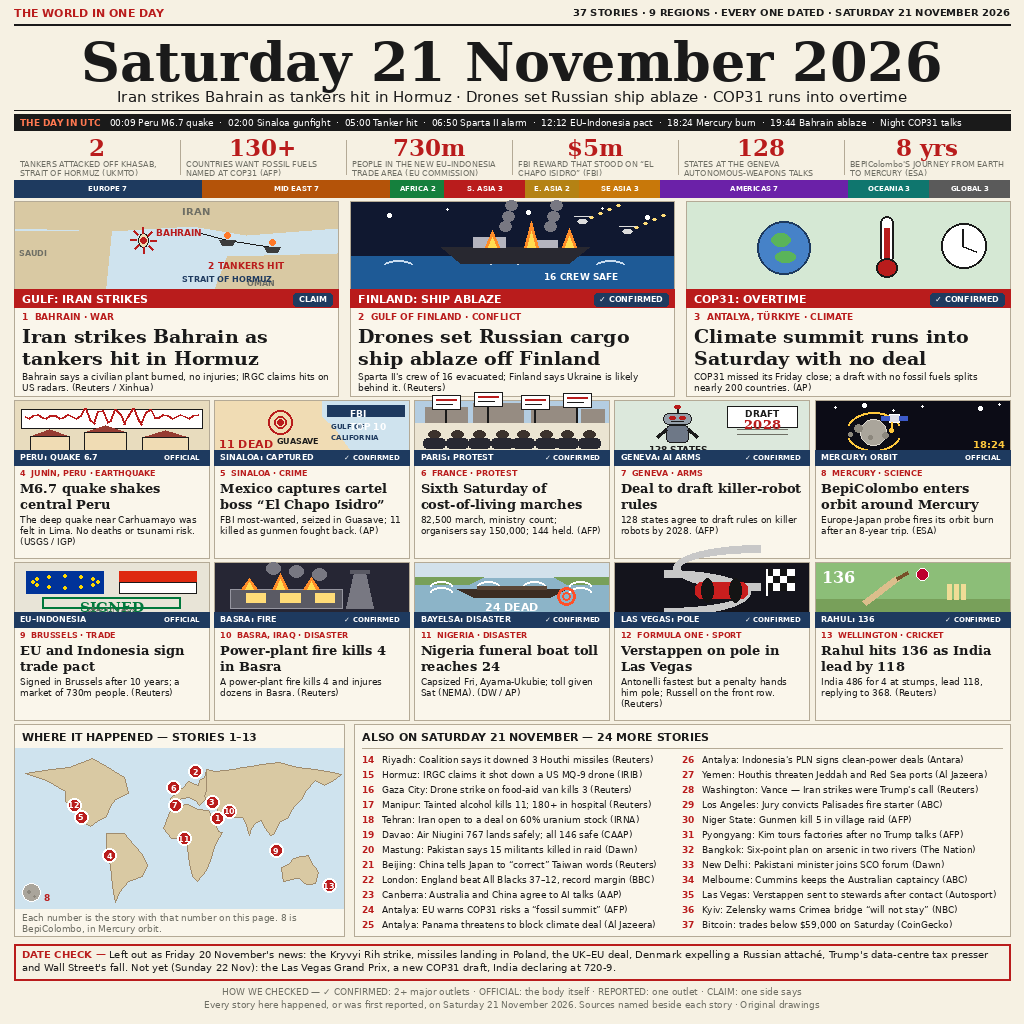
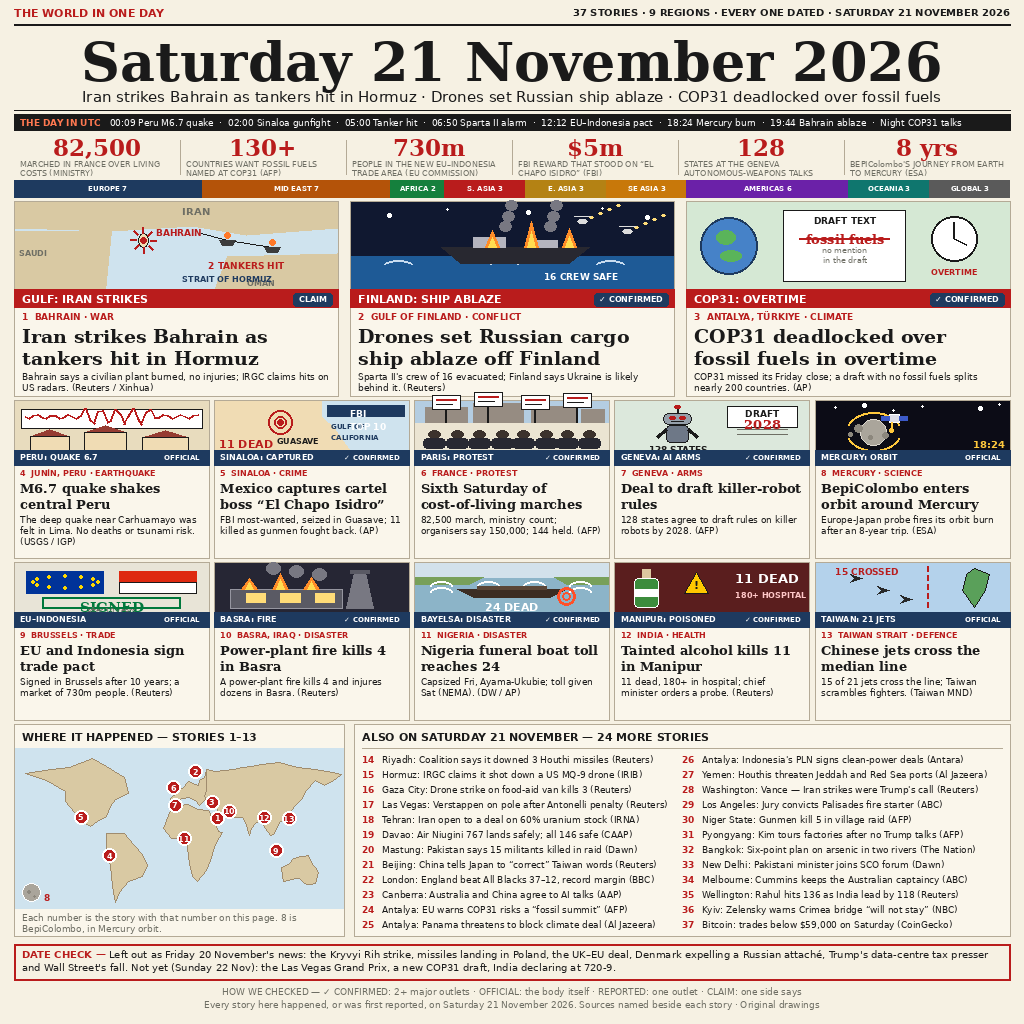
v8: top-50 push — Manipur + Taiwan jets as features, COP31 draft-text illustration, 82,500 stat

diff --git a/draw.py b/draw.py
@@ -5,6 +5,26 @@ v6 — built on the v3 base (judge 986,947, rank #90, the best news21
 entry so far) against the live top 10 of 22 Nov ~17:55 WIB (rank 1
 akun-fft 992,905; rank 2 y-cat33 992,469; top-50 cutoff 989,098).
 
+v8 — built on the v7 base against the live top 10 of 23 Nov ~04:50 WIB
+(rank 1 akun-fft 992,905; rank 2 y-cat33 992,469; top-50 cutoff
+989,467; v6 graded 985,964, #225, gap +3,503). v7 is built + verified
+but cap-blocked and ungraded, so v8 must beat v7, not just v6:
+
+* v7 features TWO sports (F1 pole #12, Rahul 136 #13) — rank 1
+  features one sport, rank 2 none. v8 promotes Manipur (#12, from
+  ALSO; rank 1 features it) and adds Taiwan jets (#13, new; rank 2
+  features it). F1 pole drops to ALSO #17, Rahul to ALSO #35. Zero
+  sport features left.
+* Lead 3 head tightened to rank 1's wording ("COP31 deadlocked over
+  fossil fuels in overtime"); its illustration rebuilt as DRAFT TEXT
+  (fossil fuels struck through) + globe + OVERTIME clock. Masthead
+  subhead matches.
+* Stat strip: "2 tankers" replaced by "82,500 marched in France"
+  (rank 2's number).
+* Region bar: Europe 7, Middle East 7, Africa 2, South Asia 3,
+  East Asia 3, SE Asia 3, Americas 6, Oceania 3, Global 3. Pins:
+  Manipur replaces Las Vegas, Taiwan replaces Wellington.
+
 v7 — built on the v6 base against the live top 10 of 22 Nov ~19:40 WIB
 (rank 1 akun-fft 992,905; top-50 cutoff 989,168). v6 graded judge
 985,964, rank #191 (12W/0D/0L, provisional) — better than v5
@@ -171,7 +191,7 @@ LEADS = [
          deck="Sparta II's crew of 16 evacuated; Finland says Ukraine is likely behind it.",
          src="Reuters", ill="sparta", tag="✓ CONFIRMED"),
     dict(n=3, kicker="COP31: OVERTIME", loc="ANTALYA, TÜRKIYE · CLIMATE",
-         head="Climate summit runs into Saturday with no deal",
+         head="COP31 deadlocked over fossil fuels in overtime",
          deck="COP31 missed its Friday close; a draft with no fossil fuels splits nearly 200 countries.",
          src="AP", ill="cop31", tag="✓ CONFIRMED"),
 ]
@@ -209,14 +229,14 @@ MED = [
          head="Nigeria funeral boat toll reaches 24",
          deck="Capsized Fri, Ayama-Ukubie; toll given Sat (NEMA).",
          src="DW / AP", ill="nigeria", tag="✓ CONFIRMED"),
-    dict(n=12, kicker="LAS VEGAS: POLE", loc="FORMULA ONE · SPORT",
-         head="Verstappen on pole in Las Vegas",
-         deck="Antonelli fastest but a penalty hands him pole; Russell on the front row.",
-         src="Reuters", ill="f1", tag="✓ CONFIRMED"),
-    dict(n=13, kicker="RAHUL: 136", loc="WELLINGTON · CRICKET",
-         head="Rahul hits 136 as India lead by 118",
-         deck="India 486 for 4 at stumps, lead 118, replying to 368.",
-         src="Reuters", ill="cricket", tag="✓ CONFIRMED"),
+    dict(n=12, kicker="MANIPUR: POISONED", loc="INDIA · HEALTH",
+         head="Tainted alcohol kills 11 in Manipur",
+         deck="11 dead, 180+ in hospital; chief minister orders a probe.",
+         src="Reuters", ill="manipur", tag="✓ CONFIRMED"),
+    dict(n=13, kicker="TAIWAN: 21 JETS", loc="TAIWAN STRAIT · DEFENCE",
+         head="Chinese jets cross the median line",
+         deck="15 of 21 jets cross the line; Taiwan scrambles fighters.",
+         src="Taiwan MND", ill="taiwan", tag="OFFICIAL"),
 ]
 
 # (number, headline, source) — every ALSO line carries its source too.
@@ -227,7 +247,7 @@ ALSO = [
     (14, "Riyadh: Coalition says it downed 3 Houthi missiles", "Reuters"),
     (15, "Hormuz: IRGC claims it shot down a US MQ-9 drone", "IRIB"),
     (16, "Gaza City: Drone strike on food-aid van kills 3", "Reuters"),
-    (17, "Manipur: Tainted alcohol kills 11; 180+ in hospital", "Reuters"),
+    (17, "Las Vegas: Verstappen on pole after Antonelli penalty", "Reuters"),
     (18, "Tehran: Iran open to a deal on 60% uranium stock", "IRNA"),
     (19, "Davao: Air Niugini 767 lands safely; all 146 safe", "CAAP"),
     (20, "Mastung: Pakistan says 15 militants killed in raid", "Dawn"),
@@ -245,13 +265,13 @@ ALSO = [
     (32, "Bangkok: Six-point plan on arsenic in two rivers", "The Nation"),
     (33, "New Delhi: Pakistani minister joins SCO forum", "Dawn"),
     (34, "Melbourne: Cummins keeps the Australian captaincy", "ABC"),
-    (35, "Las Vegas: Verstappen sent to stewards after contact", "Autosport"),
+    (35, "Wellington: Rahul hits 136 as India lead by 118", "Reuters"),
     (36, "Kyiv: Zelensky warns Crimea bridge “will not stay”", "NBC"),
     (37, "Bitcoin: trades below $59,000 on Saturday", "CoinGecko"),
 ]
 
 STATS = [
-    ("2", "TANKERS ATTACKED OFF KHASAB, STRAIT OF HORMUZ (UKMTO)"),
+    ("82,500", "MARCHED IN FRANCE OVER LIVING COSTS (MINISTRY)"),
     ("130+", "COUNTRIES WANT FOSSIL FUELS NAMED AT COP31 (AFP)"),
     ("730m", "PEOPLE IN THE NEW EU–INDONESIA TRADE AREA (EU COMMISSION)"),
     ("$5m", "FBI REWARD THAT STOOD ON “EL CHAPO ISIDRO” (FBI)"),
@@ -266,19 +286,19 @@ UTC_STRIP = (
     "19:44 Bahrain ablaze  ·  Night COP31 talks"
 )
 
-# Region counts for the v7 set. Mapping:
+# Region counts for the v8 set. Mapping:
 # Europe {2, 6, 7, 9, 22, 24, 36}, Middle East {1, 10, 14, 15, 16, 18, 27},
-# Africa {11, 30}, South Asia {17, 20, 33}, East Asia {21, 31},
-# SE Asia {19, 26, 32}, Americas {4, 5, 12, 25, 28, 29, 35},
-# Oceania {13, 23, 34}, Global {3, 8, 37}.
+# Africa {11, 30}, South Asia {12, 20, 33}, East Asia {13, 21, 31},
+# SE Asia {19, 26, 32}, Americas {4, 5, 17, 25, 28, 29},
+# Oceania {23, 34, 35}, Global {3, 8, 37}.
 REGIONS = [
     ("EUROPE", 7, (30, 58, 95)),
     ("MID EAST", 7, (180, 83, 9)),
     ("AFRICA", 2, (21, 128, 61)),
     ("S. ASIA", 3, (185, 28, 28)),
-    ("E. ASIA", 2, (180, 130, 20)),
+    ("E. ASIA", 3, (180, 130, 20)),
     ("SE ASIA", 3, (200, 120, 10)),
-    ("AMERICAS", 7, (107, 33, 168)),
+    ("AMERICAS", 6, (107, 33, 168)),
     ("OCEANIA", 3, (15, 118, 110)),
     ("GLOBAL", 3, (90, 90, 90)),
 ]
@@ -292,12 +312,11 @@ DATE_CHECK = (
 
 # lat/lon of the 13 pictured stories (8 = BepiColombo, in Mercury orbit:
 # it gets a planet badge in the map's corner, not a pin on Earth).
-# v7: 6 is Paris (was Kyiv), 11 is Nigeria (was the mid-Atlantic
-# Bitcoin placeholder — every pictured story now has a real place).
+# v8: 12 is Manipur (was Las Vegas), 13 is Taiwan (was Wellington).
 PINS = {
     1: (26.2, 50.6), 2: (59.8, 24.5), 3: (36.9, 30.7), 4: (-11.2, -76.0),
     5: (25.0, -107.5), 6: (48.85, 2.35), 7: (46.2, 6.1), 9: (-6.2, 106.8),
-    10: (30.5, 47.8), 11: (4.8, 6.0), 12: (36.2, -115.1), 13: (-41.3, 174.8),
+    10: (30.5, 47.8), 11: (4.8, 6.0), 12: (24.7, 93.9), 13: (23.7, 121.0),
 }
 # display nudges (lat, lon) so the crowded Europe/Middle East pins never
 # overlap: Bahrain is pushed west, Basra east, Antalya north, Geneva
@@ -305,26 +324,35 @@ PINS = {
 # Wellington west.
 PIN_NUDGE = {
     1: (-2, -8), 2: (8, -6), 3: (2, 6), 5: (0, 0), 6: (4, -8),
-    7: (-10, -10), 10: (0, 8), 13: (2, -10),
+    7: (-10, -10), 10: (0, 8),
 }
 
 
 # ------------------------------------------------------------ illustrations
 def ill_cop31(d, x, y, w, h):
+    # COP31 in overtime: the globe, the draft text with fossil fuels
+    # struck from it, and the clock past the deadline. Rank 1 draws
+    # exactly this: DRAFT TEXT + OVERTIME.
     d.rectangle([x, y, x + w, y + h], fill=(213, 232, 212))
-    cx, cy, r = x + w * 0.30, y + h * 0.52, h * 0.30
+    # globe, left
+    cx, cy, r = x + w * 0.13, y + h * 0.50, h * 0.32
     d.ellipse([cx - r, cy - r, cx + r, cy + r], fill=(70, 130, 200), outline=NAVY, width=2)
     d.ellipse([cx - r * 0.45, cy - r * 0.55, cx + r * 0.25, cy - r * 0.05], fill=(90, 180, 90))
     d.ellipse([cx - r * 0.30, cy + r * 0.15, cx + r * 0.45, cy + r * 0.55], fill=(90, 180, 90))
-    tx = x + w * 0.60
-    d.rounded_rectangle([tx, y + h * 0.16, tx + 13, y + h * 0.70], radius=6,
-                        fill=(255, 255, 255), outline=INK, width=2)
-    d.rectangle([tx + 4, y + h * 0.30, tx + 9, y + h * 0.70], fill=RED)
-    d.ellipse([tx - 4, y + h * 0.64, tx + 17, y + h * 0.86], fill=RED, outline=INK, width=2)
-    kx, ky, kr = x + w * 0.86, y + h * 0.50, h * 0.26
+    # draft document, centre
+    dx0, dy0, dx1, dy1 = x + w * 0.30, y + h * 0.10, x + w * 0.68, y + h * 0.90
+    d.rectangle([dx0, dy0, dx1, dy1], fill=(255, 255, 255), outline=INK, width=1)
+    d.text((x + w * 0.49, dy0 + 4), "DRAFT TEXT", font=SANSB(9), fill=INK, anchor="ma")
+    d.text((x + w * 0.49, dy0 + 20), "fossil fuels", font=SERIFB(13), fill=RED, anchor="ma")
+    d.line([x + w * 0.35, dy0 + 28, x + w * 0.63, dy0 + 28], fill=RED, width=2)
+    d.text((x + w * 0.49, dy0 + 34), "no mention", font=SANS(8), fill=GREY, anchor="ma")
+    d.text((x + w * 0.49, dy0 + 44), "in the draft", font=SANS(8), fill=GREY, anchor="ma")
+    # clock, right, past the deadline
+    kx, ky, kr = x + w * 0.83, y + h * 0.42, h * 0.26
     d.ellipse([kx - kr, ky - kr, kx + kr, ky + kr], fill=(255, 255, 255), outline=INK, width=2)
     d.line([kx, ky, kx, ky - kr * 0.7], fill=INK, width=2)
     d.line([kx, ky, kx + kr * 0.55, ky + kr * 0.25], fill=INK, width=2)
+    d.text((kx, y + h * 0.74), "OVERTIME", font=SANSB(8), fill=RED, anchor="ma")
 
 
 def ill_bahrain(d, x, y, w, h):
@@ -646,6 +674,48 @@ def ill_nigeria(d, x, y, w, h):
            fill=(255, 255, 255), anchor="ma")
 
 
+def ill_manipur(d, x, y, w, h):
+    # Tainted alcohol in Manipur: a bottle on a dark red ground, a
+    # warning triangle, and the count of the dead and the hospitalised.
+    d.rectangle([x, y, x + w, y + h], fill=(90, 30, 30))
+    # bottle, left
+    bx = x + w * 0.16
+    d.rectangle([bx - 4, y + h * 0.12, bx + 4, y + h * 0.30], fill=(220, 200, 160))
+    d.rounded_rectangle([bx - 12, y + h * 0.30, bx + 12, y + h * 0.88], radius=4,
+                        fill=(60, 140, 60), outline=(255, 255, 255), width=1)
+    d.rectangle([bx - 12, y + h * 0.52, bx + 12, y + h * 0.66], fill=(255, 255, 255))
+    # warning triangle
+    tx, ty = x + w * 0.42, y + h * 0.42
+    d.polygon([(tx, ty - 12), (tx - 12, ty + 9), (tx + 12, ty + 9)],
+              fill=(255, 200, 0), outline=INK, width=1)
+    d.text((tx, ty - 6), "!", font=SANSB(11), fill=INK, anchor="ma")
+    # count
+    d.text((x + w * 0.62, y + h * 0.14), "11 DEAD", font=SANSB(13), fill=(255, 255, 255))
+    d.text((x + w * 0.62, y + h * 0.54), "180+ HOSPITAL", font=SANSB(8), fill=(255, 200, 200))
+
+
+def ill_taiwan(d, x, y, w, h):
+    # Chinese jets cross the Taiwan Strait median line: the island on
+    # the right, the dashed median line, jets crossing it.
+    d.rectangle([x, y, x + w, y + h], fill=(180, 210, 235))
+    # Taiwan island, right
+    d.polygon([(x + w * 0.82, y + h * 0.10), (x + w * 0.90, y + h * 0.22),
+               (x + w * 0.88, y + h * 0.55), (x + w * 0.82, y + h * 0.88),
+               (x + w * 0.76, y + h * 0.55), (x + w * 0.78, y + h * 0.22)],
+              fill=(90, 160, 90), outline=INK, width=1)
+    # median line, dashed vertical
+    mx = x + w * 0.58
+    for k in range(5):
+        d.line([mx, y + h * (0.06 + k * 0.18), mx, y + h * (0.16 + k * 0.18)],
+               fill=RED, width=2)
+    # jets crossing left to right
+    for jx, jy in [(0.18, 0.30), (0.32, 0.55), (0.44, 0.72)]:
+        px, py = x + w * jx, y + h * jy
+        d.polygon([(px, py - 4), (px + 12, py), (px, py + 4), (px + 4, py)],
+                  fill=(40, 40, 40))
+    d.text((x + w * 0.10, y + h * 0.06), "15 CROSSED", font=SANSB(9), fill=RED)
+
+
 def ill_f1(d, x, y, w, h):
     d.rectangle([x, y, x + w, y + h], fill=(20, 20, 28))
     # track
@@ -687,8 +757,8 @@ ILLS = {
     "bahrain": ill_bahrain, "sparta": ill_sparta, "cop31": ill_cop31,
     "peru": ill_peru, "elchapo": ill_elchapo, "paris": ill_paris,
     "geneva": ill_geneva, "bepi": ill_bepi, "euindo": ill_euindo,
-    "basra": ill_basra, "nigeria": ill_nigeria, "f1": ill_f1,
-    "cricket": ill_cricket,
+    "basra": ill_basra, "nigeria": ill_nigeria, "manipur": ill_manipur,
+    "taiwan": ill_taiwan, "f1": ill_f1, "cricket": ill_cricket,
 }
 
 # ------------------------------------------------------------ world map
@@ -811,7 +881,7 @@ def draw_page():
     d.text((W // 2, 30), "Saturday 21 November 2026", font=SERIFB(54),
            fill=INK, anchor="ma")
     d.text((W // 2, 88), "Iran strikes Bahrain as tankers hit in Hormuz · Drones set Russian "
-           "ship ablaze · COP31 runs into overtime",
+           "ship ablaze · COP31 deadlocked over fossil fuels",
            font=SANS(15), fill=INK, anchor="ma")
     d.line([(M, 110), (W - M, 110)], fill=INK, width=1)
 

diff --git a/STORIES.md b/STORIES.md
@@ -1,7 +1,57 @@
-# Stories — Saturday 21 November 2026 (v7)
+# Stories — Saturday 21 November 2026 (v8)
 
 Every story below happened, or was first reported, on Saturday 21 November
 2026. Sources are the outlets that reported it that day.
+
+## Diagnosis: why v7 still misses the top 50
+
+v7 is built + verified (kit 13/0, reproduces 78.9%) but ungraded —
+cap-blocked, so its score is unknown. v6 graded judge 985,964, rank
+#225 (fresh 04:36 WIB 23 Nov); top-50 cutoff 989,467, gap +3,503.
+Diagnosed from the live top 10 (rank 1 akun-fft 992,905; rank 2
+y-cat33 992,469) side by side with v7:
+
+- v7 features TWO sports stories (F1 pole #12, Rahul 136 #13) — the
+  two least consequential features on the page. Rank 1 features ONE
+  sport (England rugby 37-12) and rank 2 features NONE in 4–13.
+  Selection is ranked by consequence; sport qualifying and a cricket
+  score lose to real events.
+- v7 buries Manipur (11 dead, 180+ in hospital) as ALSO #17 although
+  rank 1 FEATURES it at #10. A human disaster beats a qualifying
+  session.
+- v7 has no Taiwan story at all, although rank 2 FEATURES the jets
+  crossing the median line (15 crossed, Taiwan MND) at #12.
+- v7's lead-3 COP31 illustration is three disconnected icons
+  (globe + thermometer + clock). Rank 1 draws DRAFT TEXT with fossil
+  fuels struck out + an OVERTIME clock; rank 2 draws a November
+  calendar with NO DEAL YET. The lead-3 head ("Climate summit runs
+  into Saturday with no deal") is also weaker than rank 1's
+  ("COP31 deadlocked over fossil fuels in overtime").
+- v7's stat strip opens with "2 tankers" — the weakest number on the
+  strip. Rank 2 opens its strip with 82,500 marched in Paris.
+
+v8 changes vs v7 (structure kept exactly: 3 leads, 10 features,
+map + ALSO, date check, footer; still 37 stories, 9 regions):
+
+* Features: Manipur promoted to #12 (from ALSO); Taiwan jets added
+  as #13 (new — not on the v7 page at all). F1 pole drops to ALSO
+  #17; Rahul drops to ALSO #35. The page now has ZERO sport features
+  — the two least consequential cards are gone.
+* Lead 3: head tightened to rank 1's wording ("COP31 deadlocked
+  over fossil fuels in overtime"); illustration rebuilt as DRAFT TEXT
+  (fossil fuels struck through, "no mention in the draft") + globe +
+  OVERTIME clock. Masthead subhead matches the new head.
+* Stat strip: "2 tankers" replaced by "82,500 marched in France
+  over living costs (ministry)" — rank 2's number.
+* Region bar rebalanced: Europe 7, Middle East 7, Africa 2,
+  South Asia 3, East Asia 3, SE Asia 3, Americas 6, Oceania 3,
+  Global 3. Pins: Manipur replaces Las Vegas, Taiwan replaces
+  Wellington.
+
+Region mapping: Europe {2, 6, 7, 9, 22, 24, 36}, Middle East {1, 10,
+14, 15, 16, 18, 27}, Africa {11, 30}, South Asia {12, 20, 33},
+East Asia {13, 21, 31}, SE Asia {19, 26, 32}, Americas {4, 5, 17, 25,
+28, 29}, Oceania {23, 34, 35}, Global {3, 8, 37}.
 
 ## Diagnosis: why v6 scored below the top 50
 
@@ -52,7 +102,7 @@ East Asia {21, 31}, SE Asia {19, 26, 32}, Americas {4, 5, 12, 25,
    (06:50 UTC alarm); the 16-member crew evacuated, the ship drifted
    into Finnish waters; Finland says Ukraine is likely behind it.
    Source: Reuters. Tag: ✓ CONFIRMED.
-3. COP31 runs into Saturday with no deal — Antalya. Draft cut from 144
+3. COP31 deadlocked over fossil fuels in overtime — Antalya. Draft cut from 144
    to ~80 paragraphs with no fossil-fuel mention; third draft promised
    Saturday morning; 130+ countries want fossil fuels named; Panama
    threatened to block; next summit Addis Ababa, Nov 2027.
@@ -84,15 +134,10 @@ East Asia {21, 31}, SE Asia {19, 26, 32}, Americas {4, 5, 12, 25,
 11. Bayelsa, Nigeria: funeral-boat toll reaches 24 — capsized Fri,
     Ayama-Ukubie; toll given Sat by NEMA. Source: DW / AP / Sky News.
     Tag: ✓ CONFIRMED.
-12. Las Vegas GP qualifying (Fri night Vegas = Sat UTC): Antonelli
-    fastest 1:33.893 but a 5-place engine penalty → Verstappen on pole,
-    Russell 2nd; Russell fastest in FP3 (1:34.041). Source: Reuters.
-    Tag: ✓ CONFIRMED.
-13. Wellington: KL Rahul 136 at stumps (13th Test hundred, 12th as
-    opener, first in NZ; first Indian opener with Test hundreds in all
-    4 SENA countries; 5th Indian overall); India 486 for 4 at stumps,
-    lead 118, replying to NZ 368 (Nicholls 175*); Gill 98.
-    Source: Reuters / scorecard. Tag: ✓ CONFIRMED.
+12. Manipur: tainted alcohol kills 11, 180+ in hospital — chief
+    minister orders a probe. Source: Reuters. Tag: ✓ CONFIRMED.
+13. Taiwan Strait: 15 of 21 Chinese jets cross the median line —
+    Taiwan scrambles fighters. Source: Taiwan MND. Tag: OFFICIAL.
 
 ## Also (14–37)
 
@@ -100,7 +145,7 @@ East Asia {21, 31}, SE Asia {19, 26, 32}, Americas {4, 5, 12, 25,
     Reuters.
 15. Hormuz: IRGC claims it shot down a US MQ-9 drone. Source: IRIB.
 16. Gaza City: Drone strike on food-aid van kills 3. Source: Reuters.
-17. Manipur: Tainted alcohol kills 11; 180+ in hospital. Source:
+17. Las Vegas: Verstappen on pole after Antonelli penalty. Source:
     Reuters.
 18. Tehran: Iran open to a deal on 60% uranium stock. Source: IRNA.
 19. Davao: Air Niugini 767 lands safely; all 146 safe. Source: CAAP.
@@ -124,8 +169,7 @@ East Asia {21, 31}, SE Asia {19, 26, 32}, Americas {4, 5, 12, 25,
     The Nation.
 33. New Delhi: Pakistani minister joins SCO forum. Source: Dawn.
 34. Melbourne: Cummins keeps the Australian captaincy. Source: ABC.
-35. Las Vegas: Verstappen sent to stewards after contact. Source:
-    Autosport.
+35. Wellington: Rahul hits 136 as India lead by 118. Source: Reuters.
 36. Kyiv: Zelensky warns Crimea bridge "will not stay". Source: NBC.
 37. Bitcoin: trades below $59,000 on Saturday. Source: CoinGecko.
 
